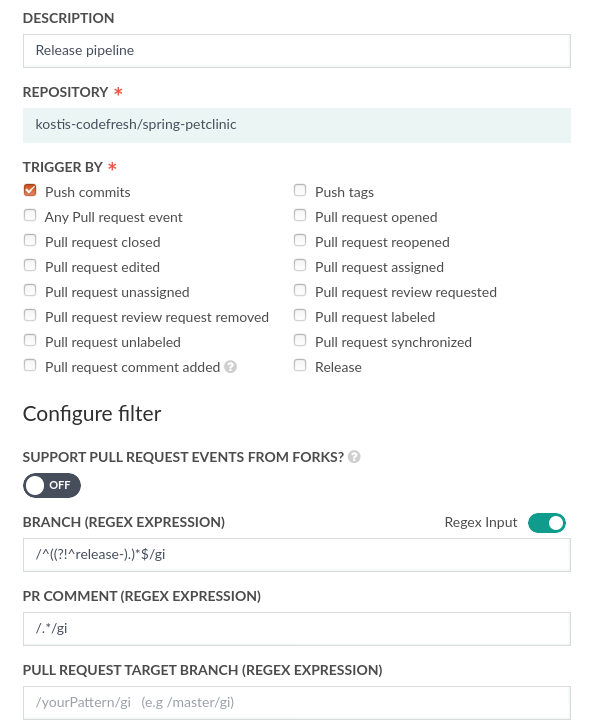
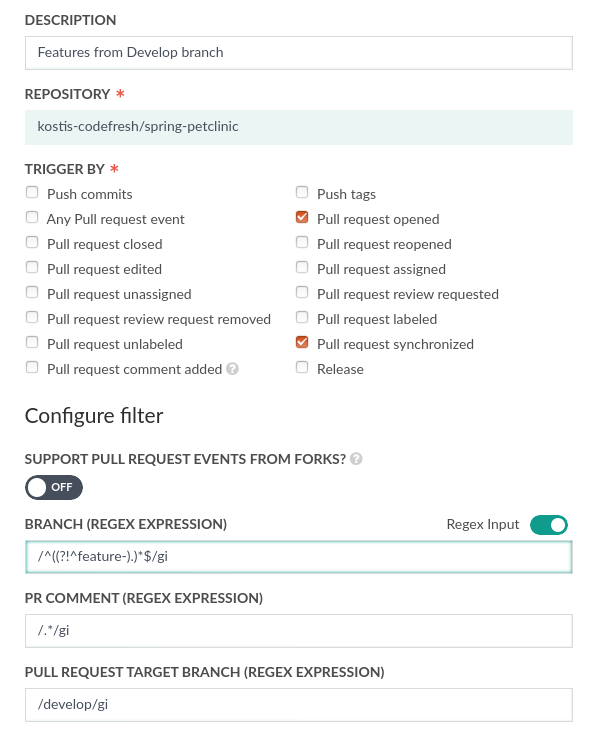
Finished branches guide

diff --git a/_docs/getting-started/on-demand-environments.md b/_docs/getting-started/on-demand-environments.md
@@ -73,7 +73,7 @@ caption="Start logs (click image to enlarge)"
 max-width="60%" 
 %}
 
-### Accessing the test environment
+## Accessing the test environment
 
 Once launch is complete, Codefresh will print a dynamic URL that contains the deployed environment. Now you have a demo environment created just for you! You can send this link with an email to a colleague to ask for feedback or to a customer to show progress.
 
@@ -112,139 +112,6 @@ max-width="70%"
 %}
 
 On the right side, you can find a list of buttons that allow you to visit the environment directly, share the link on Slack and most importantly stop the environment, so that it doesn't count against your account. It is a good practice to launch environments only when you need them and clean them up once you are done with them.
-
-## Collaborating with Pull requests
-
-Continuous Integration (CI) is based on two pillar stones:
-
-1. The merging of all features into a shared mainline (this is the *integration* part)
-2. The capability to auto-build all commits and have a deployable artifact at any given point in time (this is the *continuous* part)
-
-
-{% include 
-image.html 
-lightbox="true" 
-file="/images/getting-started/quick-start-test-pr/ci-with-merges.png" 
-url="/images/getting-started/quick-start-test-pr/ci-with-merges.png" 
-alt="CI with merges" 
-caption="Continuous Integration (click image to enlarge)" 
-max-width="80%" 
-%}
-
-Your Git provider (e.g. GitHub) is the one responsible for the Integration part. Codefresh takes care of the Continuous part in a very natural way. It uses webhooks to respond to changes that happen in source control (either in the form of new commits or when branches are created)
-
-### Auto-build of branches and pull requests
-
-By default Codefresh will connect to your Git provider and do the following:
-
-1. Auto-build every new commit that happens in master or any other branch
-2. Auto-build every new branch when it is created
-
-You can change the default behavior so that it matches your own workflow using extra [GIT Triggers]({{site.baseurl}}/docs/configure-ci-cd-pipeline/triggers/git-triggers/).
-
-You don't have to do anything special to setup this communication between Codefresh and your Git provider. It was setup automatically for you when you connected your Codefresh account to your Git provider.
-
-Codefresh also creates for you a default GIT trigger the first time you create a project.
-
-
-{% include 
-image.html 
-lightbox="true" 
-file="/images/pipeline/triggers/default-git-trigger.png" 
-url="/images/pipeline/triggers/default-git-trigger.png" 
-alt="Default GIT trigger" 
-caption="Default GIT trigger" 
-max-width="50%" 
-%}
-
-
-If you create a new branch in your repository Codefresh will automatically build it (and also store the resulting Docker image). The build will clearly define its source branch:
-
-{% include 
-image.html 
-lightbox="true" 
-file="/images/getting-started/quick-start-test-pr/auto-build-feature.png" 
-url="/images/getting-started/quick-start-test-pr/auto-build-feature.png" 
-alt="Building branches" 
-caption="Building branches (click image to enlarge)" 
-max-width="50%" 
-%}
-
-All branches are shown under the respective tab. You can build any branch on its own and you can also start a demo environment for any branch as well.
-
-{% include 
-image.html 
-lightbox="true" 
-file="/images/getting-started/quick-start-test-pr/view-branches.png" 
-url="/images/getting-started/quick-start-test-pr/view-branches.png" 
-alt="Viewing branches" 
-caption="Viewing branches (click image to enlarge)" 
-max-width="50%" 
-%}
-
-
-
-
-Codefresh also has a dedicated view for Pull Requests. When you open a Pull Request, Codefresh will show it under the respective tab. All facilities we described so far for the main branch are available for Pull requests as well. You can 
-create demo environments for Pull Requests in the same manner. Previewing the changes of a specific feature has never been easier.
-
-{% include 
-image.html 
-lightbox="true" 
-file="/images/getting-started/quick-start-test-pr/view-prs.png" 
-url="/images/getting-started/quick-start-test-pr/view-prs.png" 
-alt="View Pull Requests" 
-caption="View Pull Requests (click image to enlarge)" 
-max-width="50%" 
-%}
-
-
-When you commit to a Pull Request, not only Codefresh will auto-build it, but you will also see the build request in the GitHub UI as well:
-
-{% include 
-image.html 
-lightbox="true" 
-file="/images/getting-started/quick-start-test-pr/auto-build-pr.png" 
-url="/images/getting-started/quick-start-test-pr/auto-build-pr.png" 
-alt="Pull Request Status" 
-caption="Pull Request Status (click image to enlarge)" 
-max-width="50%" 
-%}
-
-### Different build options for branches and pull requests
-
-So far, we have used the same build options for all branches and pull requests. Codefresh allows you to define more than one groups of settings. The build settings can then be individually fine-tuned with regards to:
-
-* The build steps (e.g. unit tests and/or integration tests)
-* The branch names they affect
-* Whether they run automatically or manually
-
-
-{% include 
-image.html 
-lightbox="true" 
-file="/images/pipeline/triggers/pipeline-examples.png" 
-url="/images/pipeline/triggers/pipeline-examples.png" 
-alt="Multiple pipelines" 
-caption="Multiple pipelines (click image to enlarge)" 
-max-width="90%" 
-%}
-
-With these basic building blocks, it is possible to create any development process that matches your organization.
-Here are two extreme examples.
-
-Early Start-up company:
-
-* A main pipeline that runs automatically and deploys to production from *master* branch.
-* A testing pipeline that runs automatically and runs unit tests whenever a Pull request is opened.
-
-
-Fortune 500 company with complex approval process:
-
-* A main pipeline that runs manually from *master* and executes both unit and integration tests. It deploys to production.
-* A testing pipeline that runs manually for *staging* and runs integration tests. It deploys to staging environment.
-* A code review pipeline that runs automatically from branches named *feature-x* and runs code quality and static analysis tools.
-
 
 ## What to read next
 

diff --git a/_docs/ci-cd-guides/pull-request-branches.md b/_docs/ci-cd-guides/pull-request-branches.md
@@ -287,7 +287,7 @@ file="/images/guides/trigger-for-production-pipeline.png"
 url="/images/guides/trigger-for-production-pipeline.png" 
 alt="Trigger for production pipeline" 
 caption="Trigger for production pipeline"
-max-width="60%" 
+max-width="50%" 
 %}
 
 For the feature branch pipeline we check the events for
@@ -303,7 +303,7 @@ file="/images/guides/trigger-for-features.png"
 url="/images/guides/trigger-for-features.png" 
 alt="Trigger for pull request pipeline" 
 caption="Trigger for pull request pipeline"
-max-width="60%" 
+max-width="50%" 
 %}
 
 With this configuration the whole process is as follows
@@ -320,18 +320,43 @@ You can fine tune this workflow according to your needs. For example you might a
 
 ## Git-flow
 
+[Git Flow](https://nvie.com/posts/a-successful-git-branching-model/) is another popular management process for git branches. For brevity reasons we will not list all the details for all branch types, but it should be obvious that you can recreate all aspects of Git flow with Codefresh triggers.
+
+For example to run a pipeline only for pull requests from branches named `feature-XXX` that will be merged back to `develop` branch you can create a trigger like this:
+
+{% include image.html 
+lightbox="true" 
+file="/images/guides/git-flow-feature-trigger.png" 
+url="/images/guides/git-flow-feature-trigger.png" 
+alt="Git flow feature branch trigger" 
+caption="Git flow feature branch trigger"
+max-width="50%" 
+%}
+
+To launch a pipeline that will only run when a commit happens on a release branch named `release-XXX` you can create a trigger like this:
+
+{% include image.html 
+lightbox="true" 
+file="/images/guides/git-flow-release-pipeline-trigger.png" 
+url="/images/guides/git-flow-release-pipeline-trigger.png" 
+alt="Git flow release branch trigger" 
+caption="Git flow release branch trigger"
+max-width="50%" 
+%}
+
+In a similar manner, you can create the triggers for all other branch types in Git flow.
+
+
 ## Create your own workflow
 
-
-
-
+Trunk-based development and Git-flow are only some examples of what a Git workflow can look like. Your organization might follow a completely different process. Using the basic building blocks of Codefresh triggers (branch field PR checkboxes etc) you should be able to model your own workflow according to your own pipelines.
 
 
 ## What to read next
 
 * [Codefresh YAML]({{site.baseurl}}/docs/codefresh-yaml/what-is-the-codefresh-yaml/)
 * [Pipeline steps]({{site.baseurl}}/docs/codefresh-yaml/steps/)
-* [External Docker Registries]({{site.baseurl}}/docs/docker-registries/external-docker-registries/)
+* [Git Triggers]({{site.baseurl}}/docs/configure-ci-cd-pipeline/triggers/git-triggers/)
 * [YAML Examples]({{site.baseurl}}/docs/yaml-examples/examples/)
 
 

diff --git a/_docs/configure-ci-cd-pipeline/triggers/git-triggers.md b/_docs/configure-ci-cd-pipeline/triggers/git-triggers.md
@@ -1,6 +1,6 @@
 ---
-title: "Git Trigger"
-description: ""
+title: "Git Triggers"
+description: "Learn how to run pipelines from Git events"
 group: configure-ci-cd-pipeline
 sub_group: triggers
 toc: true
